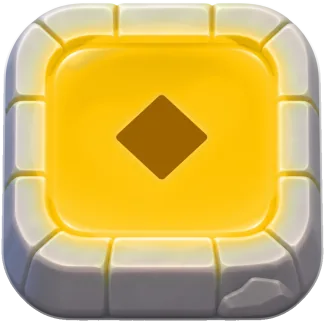
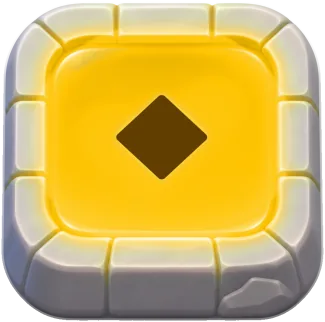
fix: darker tick on the yellow garden exit
The owner asked for a darker tick on yellow: dark brown-ochre, 5.4:1 on the
yellow face (was 2.9:1); the yellow colour shape follows. Only the two yellow
pictures change. The stone tile stays the garden exit.

Design: design/themes/garden-exit.md

Claude-Session: https://claude.ai/code/session_01PBSmYsYFMgx5mfBi9nhPCS

Changed region(s): [[0.3385, 0.2795, 0.6462, 0.559]]

diff --git a/tools/asset-pipeline/garden_exit/colour_exits.py b/tools/asset-pipeline/garden_exit/colour_exits.py
@@ -41,7 +41,7 @@ HOLE_PX = 26                # tick painted out this far around it (source px): c
 RING_PX = 22                # ring around the hole the fill is fitted to
 SHAPE_BOX = 0.33            # shape box width as a share of the face ellipse width
 SQUASH_POWER = 0.55         # shape squash = (face height / width) ** this; 1 would be the face's own
-DEEP_DARKEN = 0.72          # yellow tick: lightness of colors.robots.yellow.deep times this
+DEEP_DARKEN = 0.45          # yellow tick: lightness of colors.robots.yellow.deep times this (owner 2026-11-25: darker; 5.5:1 on the face)
 KEEP_LIGHT = 0.85           # share of the lime face's own light and shade the retoned face keeps
 OUTLINES = {"circle": (0.92, 0.46, 0), "square": (0.8, 0.07, 0), "diamond": (0.76, 0.05, 45)}
 

diff --git a/design/themes/garden-exit.md b/design/themes/garden-exit.md
@@ -359,3 +359,12 @@ painted pad, and the pad never changed its look. Now:
   `moments` table: waiting green, its colour all in grey, level won rays. "Colour shapes" survives a
   change of look.
 - Evidence (phone size, single-file build): `production/qa/evidence/garden-exit/in-game-*.png`.
+
+## Owner's choices (2026-11-25)
+
+- The stone tile stays the garden exit. The 3D grass variant (branch `claude/turnflock-garden-exit-grass`,
+  `exitVariant`) is not taken into `main`.
+- The tick on the yellow exit (and the yellow colour shape) is darker: `DEEP_DARKEN` 0.45 in
+  colour_exits.py, ink #623E00, 5.4:1 on the yellow face (was 2.9:1). Evidence:
+  `production/qa/evidence/garden-exit/elements/yellow-tick-darker.png` (before, after, shape before,
+  after) and `in-game-yellow-tick.png` (level 65).
